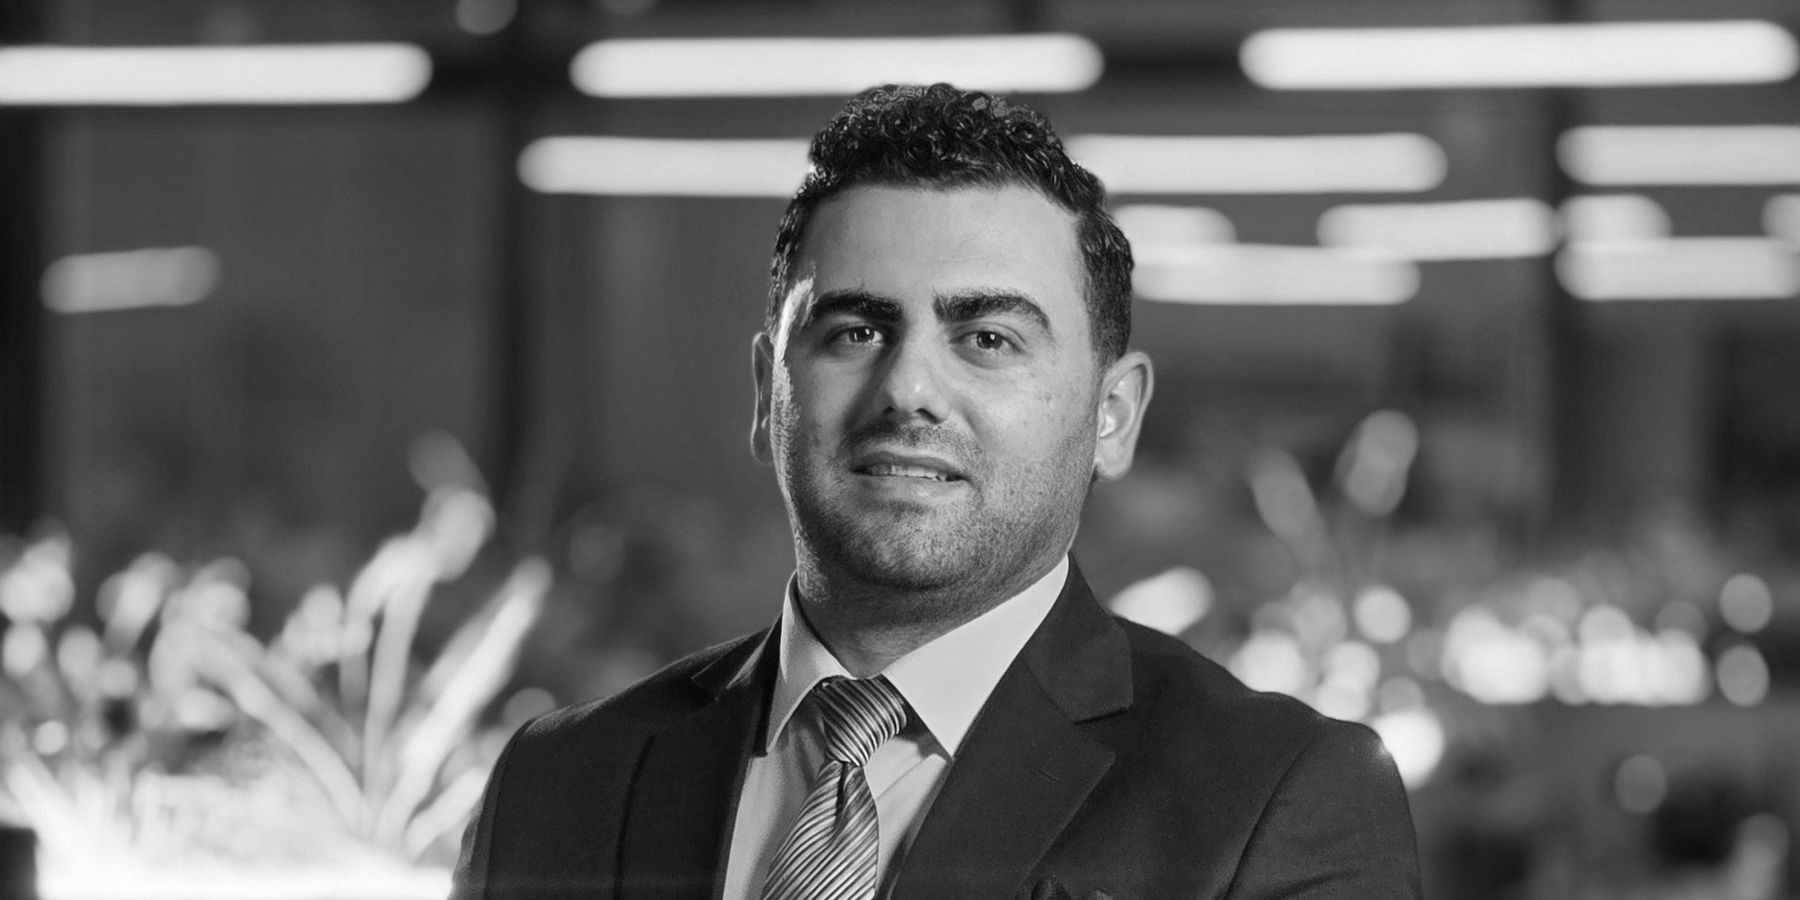
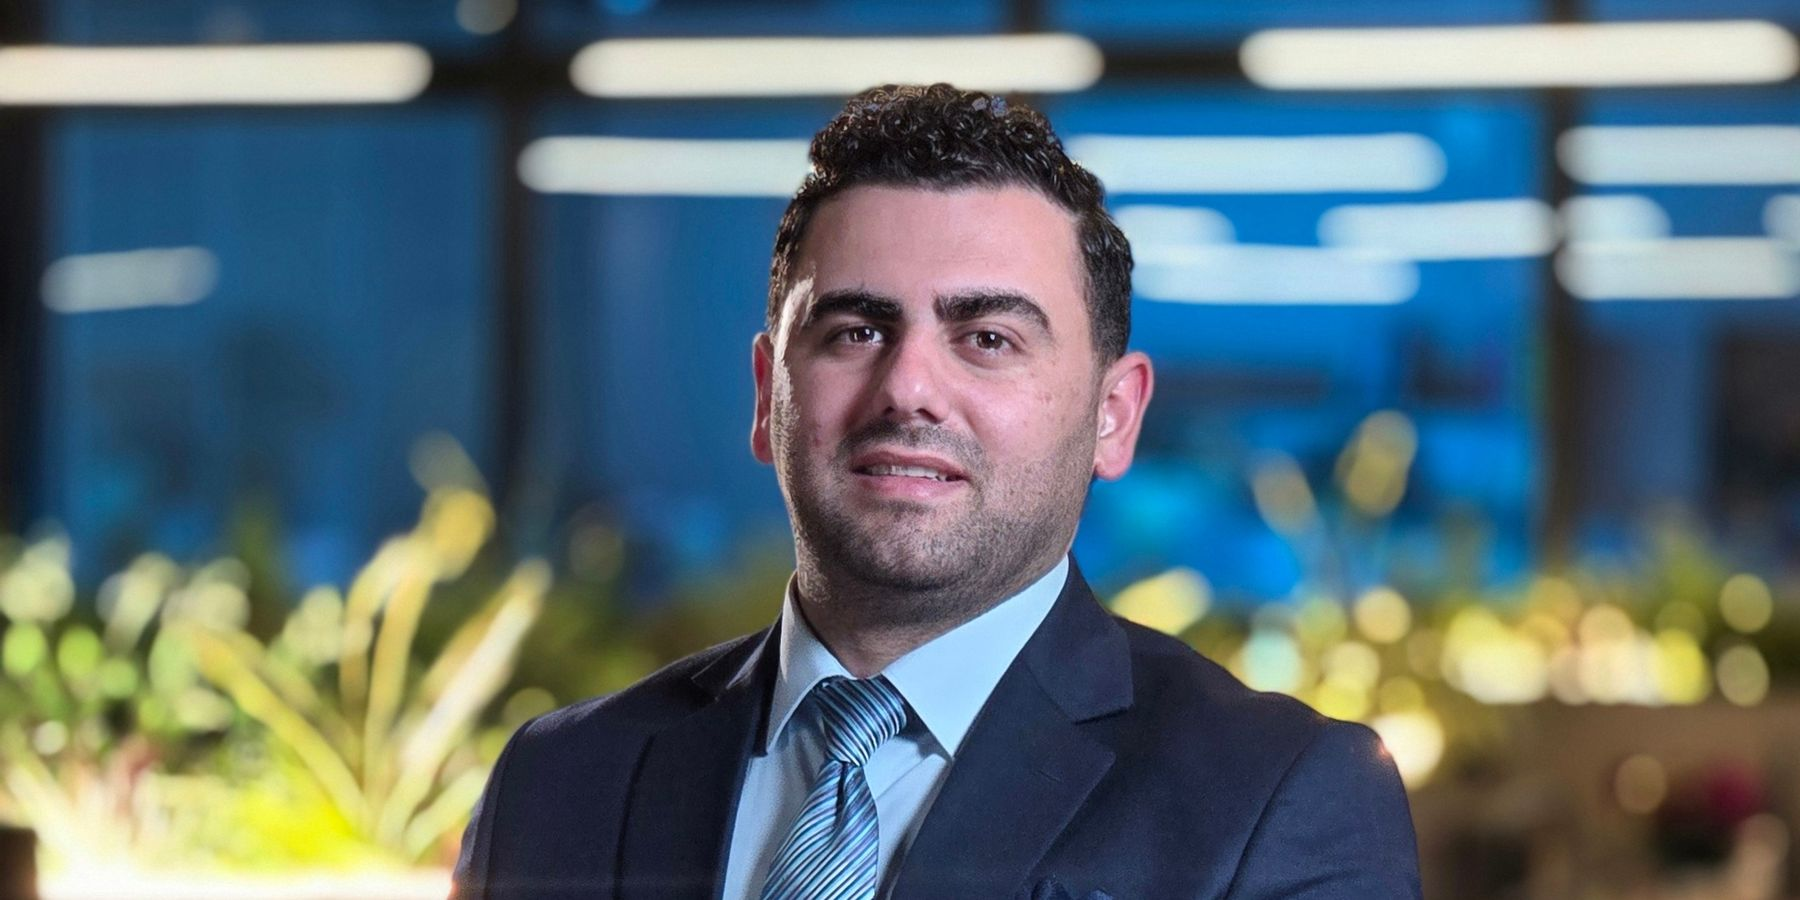
fix: colour portrait again and drop the header location/clock line

diff --git a/ku/index.html b/ku/index.html
@@ -35,10 +35,9 @@
 </head>
 <body data-loc="ku" class="bg-white text-ink antialiased overflow-x-hidden">
 <a href="#main" class="sr-only focus:not-sr-only focus:absolute focus:top-3 focus:start-3 focus:z-50 focus:bg-ink focus:text-white focus:px-4 focus:py-2 focus:rounded-md">بازدان بۆ ناوەڕۆک</a>
-<header class="wrap pt-5 pb-4 flex items-start justify-between gap-6 text-[15px]">
+<header class="wrap pt-5 pb-4 flex items-center justify-between gap-6 text-[15px]">
 <div class="leading-snug">
 <a href="/ku/" class="font-medium text-ink">دیندار ئەحمەد</a>
-<p class="text-muted">کوردستان، عێراق <span aria-hidden="true">·</span> <time data-clock dir="auto"></time></p>
 </div>
 <nav class="hidden md:flex items-center gap-6" aria-label="Main">
 <a href="/ku/" class="text-ink transition-colors" aria-current="page">سەرەتا</a>
@@ -80,7 +79,7 @@
 </div>
 </div>
 <div class="rv w-full">
-<div class="sk overflow-hidden rounded-lg "><img src="/assets/img/portrait-bw.jpg" alt="Dindar Ahmed, Marketing Manager at Mithra Production" width="1200" height="1200" fetchpriority="high" decoding="async" class="block w-full aspect-square object-cover"/></div>
+<div class="sk overflow-hidden rounded-lg "><img src="/assets/img/portrait-square.jpg" alt="Dindar Ahmed, Marketing Manager at Mithra Production" width="1200" height="1200" fetchpriority="high" decoding="async" class="block w-full aspect-square object-cover"/></div>
 </div>
 </section>
 <section class="wrap pb-16 md:pb-24">
@@ -218,6 +217,6 @@
 </div>
 </div>
 </footer>
-<script src="/js/scripts.js?v=aaf608d1" defer></script>
+<script src="/js/scripts.js?v=a967dc0f" defer></script>
 </body>
 </html>

diff --git a/ar/index.html b/ar/index.html
@@ -35,10 +35,9 @@
 </head>
 <body data-loc="ar" class="bg-white text-ink antialiased overflow-x-hidden">
 <a href="#main" class="sr-only focus:not-sr-only focus:absolute focus:top-3 focus:start-3 focus:z-50 focus:bg-ink focus:text-white focus:px-4 focus:py-2 focus:rounded-md">الانتقال للمحتوى</a>
-<header class="wrap pt-5 pb-4 flex items-start justify-between gap-6 text-[15px]">
+<header class="wrap pt-5 pb-4 flex items-center justify-between gap-6 text-[15px]">
 <div class="leading-snug">
 <a href="/ar/" class="font-medium text-ink">ديندار أحمد</a>
-<p class="text-muted">كردستان، العراق <span aria-hidden="true">·</span> <time data-clock dir="auto"></time></p>
 </div>
 <nav class="hidden md:flex items-center gap-6" aria-label="Main">
 <a href="/ar/" class="text-ink transition-colors" aria-current="page">الرئيسية</a>
@@ -80,7 +79,7 @@
 </div>
 </div>
 <div class="rv w-full">
-<div class="sk overflow-hidden rounded-lg "><img src="/assets/img/portrait-bw.jpg" alt="Dindar Ahmed, Marketing Manager at Mithra Production" width="1200" height="1200" fetchpriority="high" decoding="async" class="block w-full aspect-square object-cover"/></div>
+<div class="sk overflow-hidden rounded-lg "><img src="/assets/img/portrait-square.jpg" alt="Dindar Ahmed, Marketing Manager at Mithra Production" width="1200" height="1200" fetchpriority="high" decoding="async" class="block w-full aspect-square object-cover"/></div>
 </div>
 </section>
 <section class="wrap pb-16 md:pb-24">
@@ -218,6 +217,6 @@
 </div>
 </div>
 </footer>
-<script src="/js/scripts.js?v=aaf608d1" defer></script>
+<script src="/js/scripts.js?v=a967dc0f" defer></script>
 </body>
 </html>

diff --git a/fa/index.html b/fa/index.html
@@ -35,10 +35,9 @@
 </head>
 <body data-loc="fa" class="bg-white text-ink antialiased overflow-x-hidden">
 <a href="#main" class="sr-only focus:not-sr-only focus:absolute focus:top-3 focus:start-3 focus:z-50 focus:bg-ink focus:text-white focus:px-4 focus:py-2 focus:rounded-md">پرش به محتوا</a>
-<header class="wrap pt-5 pb-4 flex items-start justify-between gap-6 text-[15px]">
+<header class="wrap pt-5 pb-4 flex items-center justify-between gap-6 text-[15px]">
 <div class="leading-snug">
 <a href="/fa/" class="font-medium text-ink">دیندار احمد</a>
-<p class="text-muted">کردستان، عراق <span aria-hidden="true">·</span> <time data-clock dir="auto"></time></p>
 </div>
 <nav class="hidden md:flex items-center gap-6" aria-label="Main">
 <a href="/fa/" class="text-ink transition-colors" aria-current="page">خانه</a>
@@ -80,7 +79,7 @@
 </div>
 </div>
 <div class="rv w-full">
-<div class="sk overflow-hidden rounded-lg "><img src="/assets/img/portrait-bw.jpg" alt="Dindar Ahmed, Marketing Manager at Mithra Production" width="1200" height="1200" fetchpriority="high" decoding="async" class="block w-full aspect-square object-cover"/></div>
+<div class="sk overflow-hidden rounded-lg "><img src="/assets/img/portrait-square.jpg" alt="Dindar Ahmed, Marketing Manager at Mithra Production" width="1200" height="1200" fetchpriority="high" decoding="async" class="block w-full aspect-square object-cover"/></div>
 </div>
 </section>
 <section class="wrap pb-16 md:pb-24">
@@ -218,6 +217,6 @@
 </div>
 </div>
 </footer>
-<script src="/js/scripts.js?v=aaf608d1" defer></script>
+<script src="/js/scripts.js?v=a967dc0f" defer></script>
 </body>
 </html>

diff --git a/index.html b/index.html
@@ -35,10 +35,9 @@
 </head>
 <body data-loc="en" class="bg-white text-ink antialiased overflow-x-hidden">
 <a href="#main" class="sr-only focus:not-sr-only focus:absolute focus:top-3 focus:start-3 focus:z-50 focus:bg-ink focus:text-white focus:px-4 focus:py-2 focus:rounded-md">Skip to content</a>
-<header class="wrap pt-5 pb-4 flex items-start justify-between gap-6 text-[15px]">
+<header class="wrap pt-5 pb-4 flex items-center justify-between gap-6 text-[15px]">
 <div class="leading-snug">
 <a href="/" class="font-medium text-ink">Dindar Ahmed</a>
-<p class="text-muted">Kurdistan, Iraq <span aria-hidden="true">·</span> <time data-clock dir="auto"></time></p>
 </div>
 <nav class="hidden md:flex items-center gap-6" aria-label="Main">
 <a href="/" class="text-ink transition-colors" aria-current="page">Home</a>
@@ -80,7 +79,7 @@
 </div>
 </div>
 <div class="rv w-full">
-<div class="sk overflow-hidden rounded-lg "><img src="/assets/img/portrait-bw.jpg" alt="Dindar Ahmed, Marketing Manager at Mithra Production" width="1200" height="1200" fetchpriority="high" decoding="async" class="block w-full aspect-square object-cover"/></div>
+<div class="sk overflow-hidden rounded-lg "><img src="/assets/img/portrait-square.jpg" alt="Dindar Ahmed, Marketing Manager at Mithra Production" width="1200" height="1200" fetchpriority="high" decoding="async" class="block w-full aspect-square object-cover"/></div>
 </div>
 </section>
 <section class="wrap pb-16 md:pb-24">
@@ -218,6 +217,6 @@
 </div>
 </div>
 </footer>
-<script src="/js/scripts.js?v=aaf608d1" defer></script>
+<script src="/js/scripts.js?v=a967dc0f" defer></script>
 </body>
 </html>

diff --git a/js/scripts.js b/js/scripts.js
@@ -6,27 +6,6 @@
   var rtl = html.dir === "rtl";
   var calm = window.matchMedia("(prefers-reduced-motion: reduce)").matches;
 
-  // ---- Live clock in the header (Erbil time) ----
-  // Sorani has patchy browser support, so Kurdish uses Arabic-Indic digits on a 24h clock
-  var CLOCK_LOCALE = { en: "en-US", ku: "ar-IQ", ar: "ar-IQ", fa: "fa-IR" };
-  var clocks = document.querySelectorAll("[data-clock]");
-  if (clocks.length) {
-    var fmt;
-    try {
-      var opts = { timeZone: "Asia/Baghdad", hour: "numeric", minute: "2-digit" };
-      if (loc === "ku") opts.hourCycle = "h23";
-      fmt = new Intl.DateTimeFormat(CLOCK_LOCALE[loc] || "en-US", opts);
-    } catch (e) {
-      fmt = new Intl.DateTimeFormat("en-US", { timeZone: "Asia/Baghdad", hour: "numeric", minute: "2-digit" });
-    }
-    var tick = function () {
-      var t = fmt.format(new Date());
-      clocks.forEach(function (c) { c.textContent = t; });
-    };
-    tick();
-    setInterval(tick, 15000);
-  }
-
   // ---- Hero headline: letter (Latin) or word (Arabic script) reveal ----
   document.querySelectorAll("[data-split]").forEach(function (h) {
     if (calm) return;

diff --git a/ku/about/index.html b/ku/about/index.html
@@ -35,10 +35,9 @@
 </head>
 <body data-loc="ku" class="bg-white text-ink antialiased overflow-x-hidden">
 <a href="#main" class="sr-only focus:not-sr-only focus:absolute focus:top-3 focus:start-3 focus:z-50 focus:bg-ink focus:text-white focus:px-4 focus:py-2 focus:rounded-md">بازدان بۆ ناوەڕۆک</a>
-<header class="wrap pt-5 pb-4 flex items-start justify-between gap-6 text-[15px]">
+<header class="wrap pt-5 pb-4 flex items-center justify-between gap-6 text-[15px]">
 <div class="leading-snug">
 <a href="/ku/" class="font-medium text-ink">دیندار ئەحمەد</a>
-<p class="text-muted">کوردستان، عێراق <span aria-hidden="true">·</span> <time data-clock dir="auto"></time></p>
 </div>
 <nav class="hidden md:flex items-center gap-6" aria-label="Main">
 <a href="/ku/" class="text-muted hover:text-ink transition-colors">سەرەتا</a>
@@ -220,6 +219,6 @@
 </div>
 </div>
 </footer>
-<script src="/js/scripts.js?v=aaf608d1" defer></script>
+<script src="/js/scripts.js?v=a967dc0f" defer></script>
 </body>
 </html>

diff --git a/ku/work/index.html b/ku/work/index.html
@@ -35,10 +35,9 @@
 </head>
 <body data-loc="ku" class="bg-white text-ink antialiased overflow-x-hidden">
 <a href="#main" class="sr-only focus:not-sr-only focus:absolute focus:top-3 focus:start-3 focus:z-50 focus:bg-ink focus:text-white focus:px-4 focus:py-2 focus:rounded-md">بازدان بۆ ناوەڕۆک</a>
-<header class="wrap pt-5 pb-4 flex items-start justify-between gap-6 text-[15px]">
+<header class="wrap pt-5 pb-4 flex items-center justify-between gap-6 text-[15px]">
 <div class="leading-snug">
 <a href="/ku/" class="font-medium text-ink">دیندار ئەحمەد</a>
-<p class="text-muted">کوردستان، عێراق <span aria-hidden="true">·</span> <time data-clock dir="auto"></time></p>
 </div>
 <nav class="hidden md:flex items-center gap-6" aria-label="Main">
 <a href="/ku/" class="text-muted hover:text-ink transition-colors">سەرەتا</a>
@@ -310,6 +309,6 @@
 </div>
 </div>
 </footer>
-<script src="/js/scripts.js?v=aaf608d1" defer></script>
+<script src="/js/scripts.js?v=a967dc0f" defer></script>
 </body>
 </html>

diff --git a/ar/about/index.html b/ar/about/index.html
@@ -35,10 +35,9 @@
 </head>
 <body data-loc="ar" class="bg-white text-ink antialiased overflow-x-hidden">
 <a href="#main" class="sr-only focus:not-sr-only focus:absolute focus:top-3 focus:start-3 focus:z-50 focus:bg-ink focus:text-white focus:px-4 focus:py-2 focus:rounded-md">الانتقال للمحتوى</a>
-<header class="wrap pt-5 pb-4 flex items-start justify-between gap-6 text-[15px]">
+<header class="wrap pt-5 pb-4 flex items-center justify-between gap-6 text-[15px]">
 <div class="leading-snug">
 <a href="/ar/" class="font-medium text-ink">ديندار أحمد</a>
-<p class="text-muted">كردستان، العراق <span aria-hidden="true">·</span> <time data-clock dir="auto"></time></p>
 </div>
 <nav class="hidden md:flex items-center gap-6" aria-label="Main">
 <a href="/ar/" class="text-muted hover:text-ink transition-colors">الرئيسية</a>
@@ -220,6 +219,6 @@
 </div>
 </div>
 </footer>
-<script src="/js/scripts.js?v=aaf608d1" defer></script>
+<script src="/js/scripts.js?v=a967dc0f" defer></script>
 </body>
 </html>

diff --git a/ar/work/index.html b/ar/work/index.html
@@ -35,10 +35,9 @@
 </head>
 <body data-loc="ar" class="bg-white text-ink antialiased overflow-x-hidden">
 <a href="#main" class="sr-only focus:not-sr-only focus:absolute focus:top-3 focus:start-3 focus:z-50 focus:bg-ink focus:text-white focus:px-4 focus:py-2 focus:rounded-md">الانتقال للمحتوى</a>
-<header class="wrap pt-5 pb-4 flex items-start justify-between gap-6 text-[15px]">
+<header class="wrap pt-5 pb-4 flex items-center justify-between gap-6 text-[15px]">
 <div class="leading-snug">
 <a href="/ar/" class="font-medium text-ink">ديندار أحمد</a>
-<p class="text-muted">كردستان، العراق <span aria-hidden="true">·</span> <time data-clock dir="auto"></time></p>
 </div>
 <nav class="hidden md:flex items-center gap-6" aria-label="Main">
 <a href="/ar/" class="text-muted hover:text-ink transition-colors">الرئيسية</a>
@@ -310,6 +309,6 @@
 </div>
 </div>
 </footer>
-<script src="/js/scripts.js?v=aaf608d1" defer></script>
+<script src="/js/scripts.js?v=a967dc0f" defer></script>
 </body>
 </html>

diff --git a/fa/about/index.html b/fa/about/index.html
@@ -35,10 +35,9 @@
 </head>
 <body data-loc="fa" class="bg-white text-ink antialiased overflow-x-hidden">
 <a href="#main" class="sr-only focus:not-sr-only focus:absolute focus:top-3 focus:start-3 focus:z-50 focus:bg-ink focus:text-white focus:px-4 focus:py-2 focus:rounded-md">پرش به محتوا</a>
-<header class="wrap pt-5 pb-4 flex items-start justify-between gap-6 text-[15px]">
+<header class="wrap pt-5 pb-4 flex items-center justify-between gap-6 text-[15px]">
 <div class="leading-snug">
 <a href="/fa/" class="font-medium text-ink">دیندار احمد</a>
-<p class="text-muted">کردستان، عراق <span aria-hidden="true">·</span> <time data-clock dir="auto"></time></p>
 </div>
 <nav class="hidden md:flex items-center gap-6" aria-label="Main">
 <a href="/fa/" class="text-muted hover:text-ink transition-colors">خانه</a>
@@ -220,6 +219,6 @@
 </div>
 </div>
 </footer>
-<script src="/js/scripts.js?v=aaf608d1" defer></script>
+<script src="/js/scripts.js?v=a967dc0f" defer></script>
 </body>
 </html>

diff --git a/fa/work/index.html b/fa/work/index.html
@@ -35,10 +35,9 @@
 </head>
 <body data-loc="fa" class="bg-white text-ink antialiased overflow-x-hidden">
 <a href="#main" class="sr-only focus:not-sr-only focus:absolute focus:top-3 focus:start-3 focus:z-50 focus:bg-ink focus:text-white focus:px-4 focus:py-2 focus:rounded-md">پرش به محتوا</a>
-<header class="wrap pt-5 pb-4 flex items-start justify-between gap-6 text-[15px]">
+<header class="wrap pt-5 pb-4 flex items-center justify-between gap-6 text-[15px]">
 <div class="leading-snug">
 <a href="/fa/" class="font-medium text-ink">دیندار احمد</a>
-<p class="text-muted">کردستان، عراق <span aria-hidden="true">·</span> <time data-clock dir="auto"></time></p>
 </div>
 <nav class="hidden md:flex items-center gap-6" aria-label="Main">
 <a href="/fa/" class="text-muted hover:text-ink transition-colors">خانه</a>
@@ -310,6 +309,6 @@
 </div>
 </div>
 </footer>
-<script src="/js/scripts.js?v=aaf608d1" defer></script>
+<script src="/js/scripts.js?v=a967dc0f" defer></script>
 </body>
 </html>

diff --git a/about/index.html b/about/index.html
@@ -35,10 +35,9 @@
 </head>
 <body data-loc="en" class="bg-white text-ink antialiased overflow-x-hidden">
 <a href="#main" class="sr-only focus:not-sr-only focus:absolute focus:top-3 focus:start-3 focus:z-50 focus:bg-ink focus:text-white focus:px-4 focus:py-2 focus:rounded-md">Skip to content</a>
-<header class="wrap pt-5 pb-4 flex items-start justify-between gap-6 text-[15px]">
+<header class="wrap pt-5 pb-4 flex items-center justify-between gap-6 text-[15px]">
 <div class="leading-snug">
 <a href="/" class="font-medium text-ink">Dindar Ahmed</a>
-<p class="text-muted">Kurdistan, Iraq <span aria-hidden="true">·</span> <time data-clock dir="auto"></time></p>
 </div>
 <nav class="hidden md:flex items-center gap-6" aria-label="Main">
 <a href="/" class="text-muted hover:text-ink transition-colors">Home</a>
@@ -220,6 +219,6 @@
 </div>
 </div>
 </footer>
-<script src="/js/scripts.js?v=aaf608d1" defer></script>
+<script src="/js/scripts.js?v=a967dc0f" defer></script>
 </body>
 </html>
